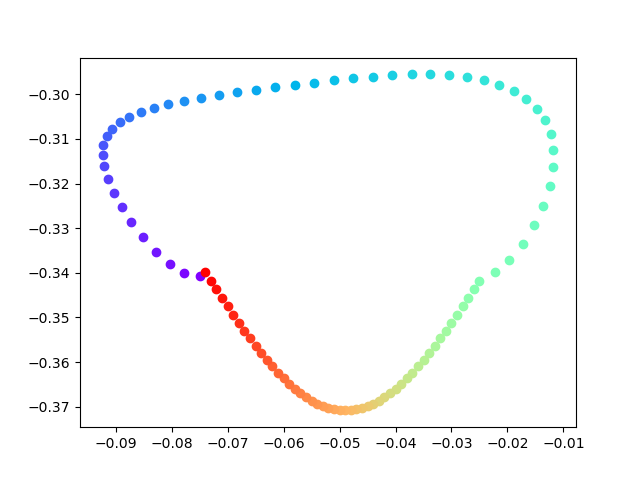
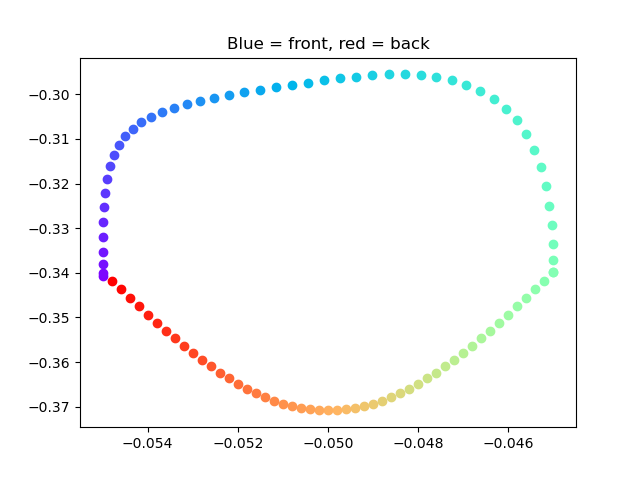
OK proper fix to my stance code

diff --git a/custom_gait/src/custom_gait.cpp b/custom_gait/src/custom_gait.cpp
@@ -288,8 +288,13 @@ private:
 
     if (trot_offset == 0){
       // this corresponds to constant motion
-      std::vector<double> sin_x = gaitlib::linspace(ctrl_x.back(), ctrl_x.at(0), period);
-      std::vector<double> sin_y = gaitlib::stance(sin_x, -delta, ctrl_y.at(0));
+      const auto ctrl_back = ctrl_x.back();
+      const auto ctrl_front = ctrl_x.front();
+
+      RCLCPP_INFO_STREAM(get_logger(), "Back: " << ctrl_back << " Front " << ctrl_front);
+
+      std::vector<double> sin_x = gaitlib::linspace(ctrl_back, ctrl_front, period);
+      std::vector<double> sin_y = gaitlib::stance(sin_x, delta, ctrl_y.at(0));
 
       final_x = gaitlib::concatenate(bez_x, sin_x);
       final_y = gaitlib::concatenate(bez_y, sin_y);
@@ -298,7 +303,7 @@ private:
       std::vector<double> sin_x =
         gaitlib::linspace(ctrl_x.at(0), ctrl_x.at(0), period);
       std::vector<double> sin_y =
-        gaitlib::stance(sin_x, -delta, ctrl_y.at(0));
+        gaitlib::stance(sin_x, delta, ctrl_y.at(0));
 
       const auto moving_x = gaitlib::concatenate(sin_x, bez_x);
       const auto moving_y = gaitlib::concatenate(sin_y, bez_y);
@@ -338,7 +343,7 @@ private:
     std::vector<double> tripod_sin_x =
       gaitlib::linspace(ctrl_x.at(0), ctrl_x.at(0), period);
     std::vector<double> tripod_sin_y =
-      gaitlib::stance(tripod_sin_x, -delta, ctrl_y.at(0));
+      gaitlib::stance(tripod_sin_x, delta, ctrl_y.at(0));
 
     const auto moving_x = gaitlib::concatenate(tripod_sin_x, bez_x);
     const auto moving_y = gaitlib::concatenate(tripod_sin_y, bez_y);
@@ -373,7 +378,7 @@ private:
     std::vector<double> single_sin_x =
       gaitlib::linspace(ctrl_x.at(0), ctrl_x.at(0), period);
     std::vector<double> single_sin_y =
-      gaitlib::stance(single_sin_x, -delta, ctrl_y.at(0));
+      gaitlib::stance(single_sin_x, delta, ctrl_y.at(0));
 
     const auto moving_x = gaitlib::concatenate(single_sin_x, bez_x);
     const auto moving_y = gaitlib::concatenate(single_sin_y, bez_y);

diff --git a/gaitlib/src/gaits.cpp b/gaitlib/src/gaits.cpp
@@ -61,7 +61,8 @@ std::vector<double> linspace(double start, double end, double npoints){
 
 std::vector<double> stance(std::vector<double> xcoords, double delta, double y_level){
   std::vector<double> res;
-  double len = xcoords.front() - xcoords.back();
+  double len = xcoords.back() - xcoords.front();
+  // need to account for offset if x is not at 0!!!
   long npoints = static_cast<long>(xcoords.size());
   // what if len = 0?
   if (len == 0){
@@ -70,8 +71,9 @@ std::vector<double> stance(std::vector<double> xcoords, double delta, double y_l
       res.push_back(ycoord);
     }
   } else {
+    const auto middle_x = xcoords.at(static_cast<int>(0.5*npoints));
     for(long i=0; i<npoints; i++){
-      double ycoord = -1.0*delta*cos((M_PI/len)*xcoords.at(i)) + y_level;
+      double ycoord = -1.0*delta*cos((M_PI/len)*(xcoords.at(i) - middle_x)) + y_level;
       res.push_back(ycoord);
     }
   }

diff --git a/python_testing/plotCurve.py b/python_testing/plotCurve.py
@@ -29,5 +29,6 @@ colors = cm.rainbow(np.linspace(0, 1, len(curvex)))
 for i in range(0, len(curvex)):
   plt.scatter(curvex[i], curvey[i], color = colors[i])
 
+plt.title("Blue = front, red = back")
 plt.savefig("plots/myCurve.png")
 plt.show()
